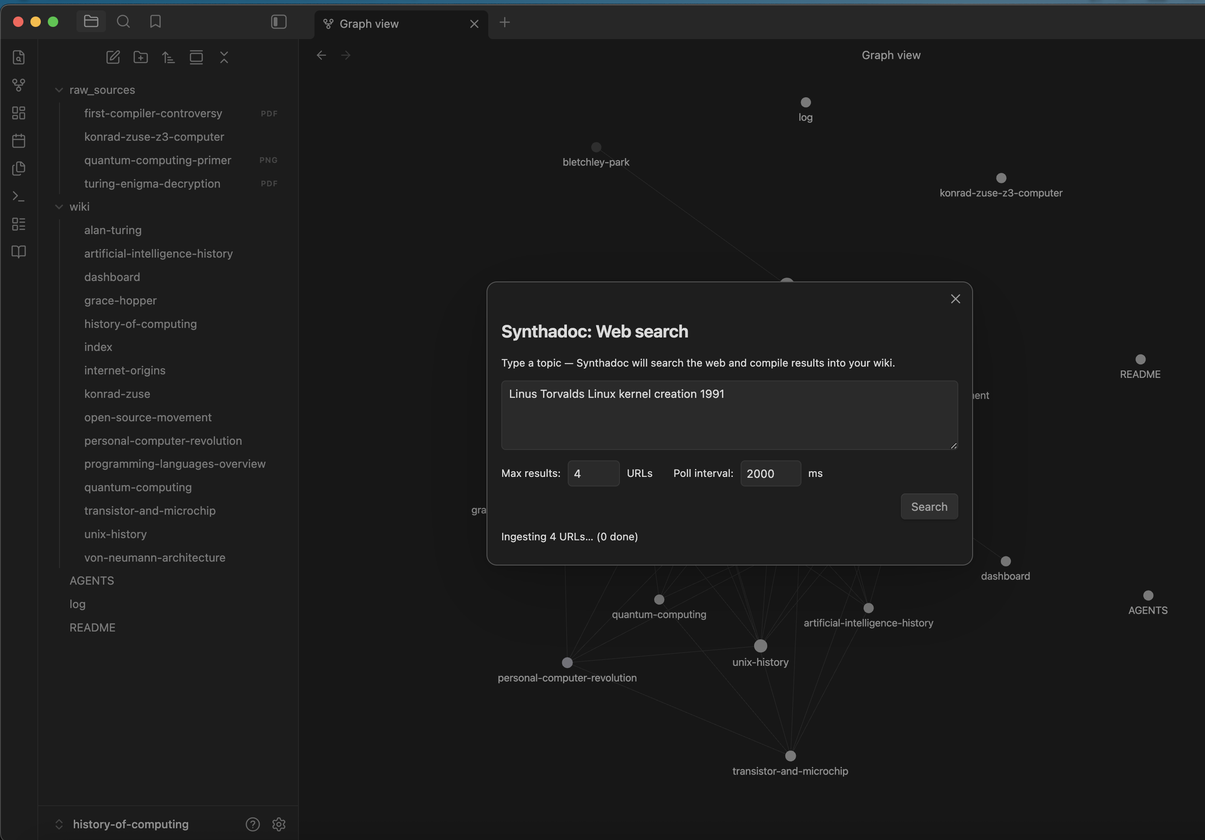
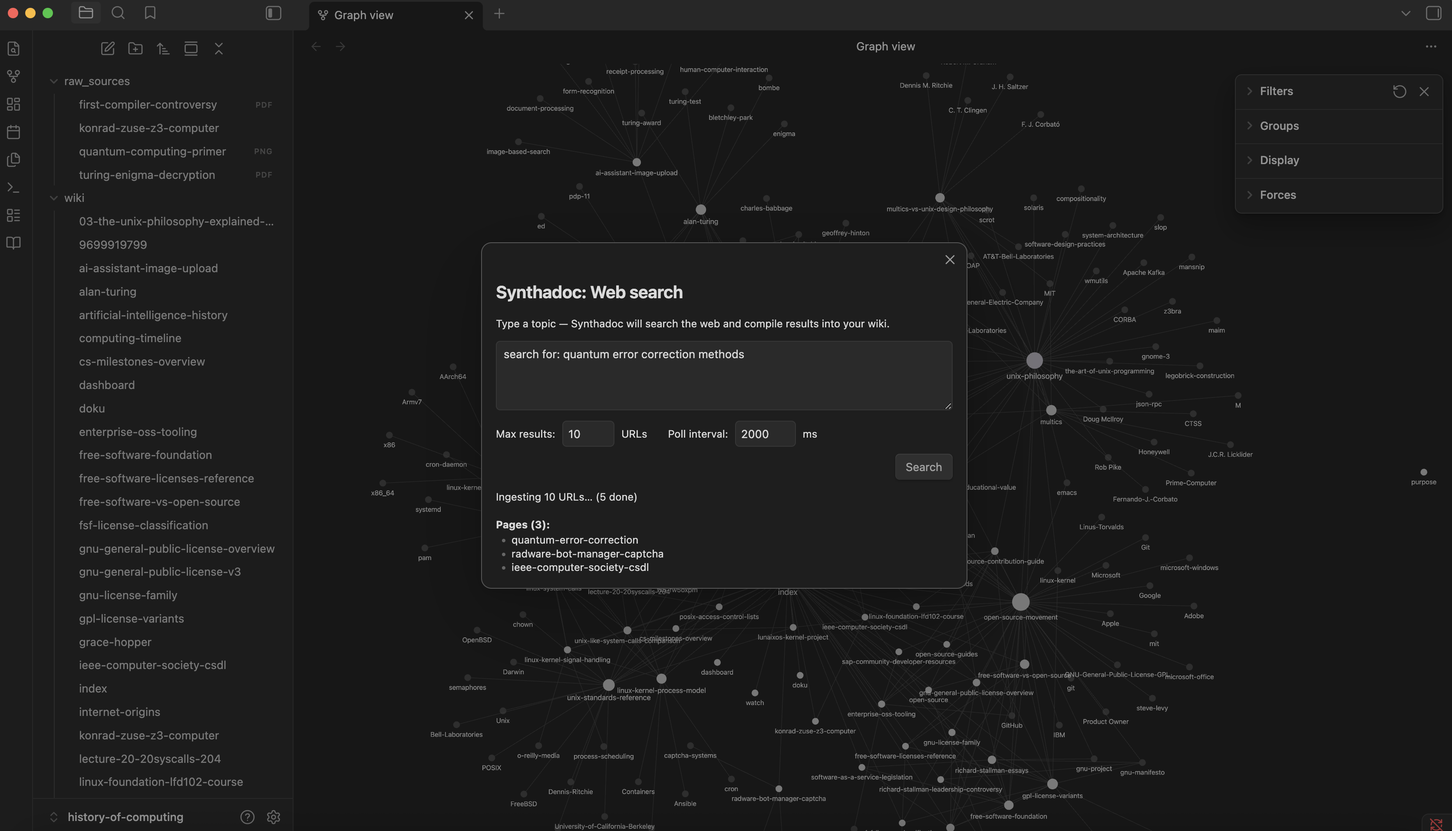
[v0.3.0] make Obsidian plugin for Synthadoc query and web search result text selectable for copy/paste (#49)
* fix(obsidian): make query and web search result text selectable for copy/paste
* update the live view png file

diff --git a/obsidian-plugin/main.js b/obsidian-plugin/main.js
@@ -1,6 +1,6 @@
 var I=Object.defineProperty;var tt=Object.getOwnPropertyDescriptor;var et=Object.getOwnPropertyNames;var st=Object.prototype.hasOwnProperty;var nt=(d,o)=>{for(var e in o)I(d,e,{get:o[e],enumerable:!0})},at=(d,o,e,t)=>{if(o&&typeof o=="object"||typeof o=="function")for(let n of et(o))!st.call(d,n)&&n!==e&&I(d,n,{get:()=>o[n],enumerable:!(t=tt(o,n))||t.enumerable});return d};var ot=d=>at(I({},"__esModule",{value:!0}),d);var lt={};nt(lt,{default:()=>C});module.exports=ot(lt);var p=require("obsidian");var V=require("obsidian"),X="http://127.0.0.1:7070";function P(d){X=d.replace(/\/$/,"")}async function w(d,o="GET",e){let t=await(0,V.requestUrl)({url:`${X}${d}`,method:o,headers:{"Content-Type":"application/json"},body:e?JSON.stringify(e):void 0,throw:!1});if(t.status<200||t.status>=300)throw new Error(`synthadoc API ${t.status}`);return t.json}var f={health:()=>w("/health"),status:()=>w("/status"),query:d=>w("/query","POST",{question:d}),ingest:(d,o)=>w("/jobs/ingest","POST",o!=null?{source:d,max_results:o}:{source:d}),lint:(d="all",o=!1)=>w("/jobs/lint","POST",{scope:d,auto_resolve:o}),lintReport:()=>w("/lint/report"),jobs:d=>w(d?`/jobs?status=${encodeURIComponent(d)}`:"/jobs"),retryJob:d=>w(`/jobs/${d}/retry`,"POST"),purgeJobs:d=>w(`/jobs?older_than=${d}`,"DELETE"),scaffold:d=>w("/jobs/scaffold","POST",{domain:d}),job:d=>w(`/jobs/${d}`),auditHistory:(d=50)=>w(`/audit/history?limit=${d}`),auditCosts:(d=30)=>w(`/audit/costs?days=${d}`),queryHistory:(d=50)=>w(`/audit/queries?limit=${d}`)};var Z=new Set(["md","txt","pdf","docx","xlsx","csv","png","jpg","jpeg","webp","gif","tiff"]),Y={serverUrl:"http://127.0.0.1:7070",rawSourcesFolder:"raw_sources"},C=class extends p.Plugin{constructor(){super(...arguments);this.settings=Y}async onload(){await this.loadSettings(),P(this.settings.serverUrl),this.addSettingTab(new O(this.app,this)),this.addCommand({id:"synthadoc-ingest-current",name:"Ingest: current file",callback:()=>{let e=this.app.workspace.getActiveFile();e?this.ingestFile(e):new q(this.app,this).open()}}),this.addCommand({id:"synthadoc-ingest-all",name:"Ingest: all sources in folder",callback:()=>this.ingestAllSources()}),this.addCommand({id:"synthadoc-query",name:"Query: ask the wiki...",callback:()=>new Q(this.app).open()}),this.addCommand({id:"synthadoc-jobs",name:"Jobs: list...",callback:()=>new z(this.app).open()}),this.addCommand({id:"synthadoc-lint-report",name:"Lint: report",callback:()=>new F(this.app).open()}),this.addCommand({id:"synthadoc-ingest-url",name:"Ingest: from URL...",callback:()=>new R(this.app).open()}),this.addCommand({id:"synthadoc-web-search",name:"Ingest: web search...",callback:()=>new H(this.app).open()}),this.addCommand({id:"synthadoc-lint",name:"Lint: run",callback:async()=>{var e,t;new p.Notice("Synthadoc: running lint...");try{let n=await f.lint();new p.Notice(`Synthadoc: lint done \u2014 ${n.contradictions_found} contradictions, ${(t=(e=n.orphans)==null?void 0:e.length)!=null?t:0} orphans`)}catch(n){new p.Notice("Synthadoc: server not running \u2014 run 'synthadoc serve'")}}}),this.addCommand({id:"synthadoc-lint-auto-resolve",name:"Lint: run with auto-resolve",callback:async()=>{var e,t;new p.Notice("Synthadoc: running lint with auto-resolve...");try{let n=await f.lint("all",!0);new p.Notice(`Synthadoc: lint done \u2014 ${n.contradictions_found} contradictions, ${(t=(e=n.orphans)==null?void 0:e.length)!=null?t:0} orphans`)}catch(n){new p.Notice("Synthadoc: server not running \u2014 run 'synthadoc serve'")}}}),this.addCommand({id:"synthadoc-jobs-retry-dead",name:"Jobs: retry dead job...",callback:()=>new A(this.app).open()}),this.addCommand({id:"synthadoc-jobs-purge",name:"Jobs: purge old completed/dead...",callback:()=>new D(this.app).open()}),this.addCommand({id:"synthadoc-scaffold",name:"Wiki: regenerate scaffold...",callback:()=>new M(this.app).open()}),this.addCommand({id:"synthadoc-audit-history",name:"Audit: ingest history...",callback:()=>new U(this.app).open()}),this.addCommand({id:"synthadoc-audit-costs",name:"Audit: cost summary...",callback:()=>new N(this.app).open()}),this.addCommand({id:"synthadoc-audit-queries",name:"Audit: query history...",callback:()=>new J(this.app).open()}),this.addRibbonIcon("book-open","Synthadoc status",async()=>{let[e,t]=await Promise.allSettled([f.health(),f.status()]),r=e.status==="fulfilled"?"\u2705 online":"\u274C offline \u2014 run 'synthadoc serve'",a=t.status==="fulfilled"?` \xB7 ${t.value.pages} pages`:"";new p.Notice(`Synthadoc: ${r}${a}`)})}async loadSettings(){this.settings=Object.assign({},Y,await this.loadData())}async saveSettings(){await this.saveData(this.settings)}async ingestFile(e){try{let t=await f.ingest(e.path);new p.Notice(`Synthadoc: ingest queued (job ${t.job_id})`)}catch(t){new p.Notice("Synthadoc: ingest failed \u2014 is the server running?")}}async ingestAllSources(){let e=this.settings.rawSourcesFolder.replace(/\/$/,""),t=this.app.vault.getFiles().filter(a=>{var s,l;if(!a.path.startsWith(e+"/"))return!1;let i=(l=(s=a.extension)==null?void 0:s.toLowerCase())!=null?l:"";return Z.has(i)});if(t.length===0){new p.Notice(`Synthadoc: no files found in '${e}'`);return}new p.Notice(`Synthadoc: queuing ${t.length} source(s)\u2026`);let n=0,r=0;for(let a of t)try{await f.ingest(a.path),n++}catch(i){r++}r===0?new p.Notice(`Synthadoc: ${n} job(s) queued`):new p.Notice(`Synthadoc: ${n} queued, ${r} failed \u2014 is the server running?`)}},q=class extends p.SuggestModal{constructor(o,e){super(o),this.plugin=e,this.setPlaceholder("Select a source file to ingest\u2026")}getSuggestions(o){let e=this.plugin.settings.rawSourcesFolder.replace(/\/$/,""),t=o.toLowerCase();return this.app.vault.getFiles().filter(n=>{var a,i;if(!n.path.startsWith(e+"/"))return!1;let r=(i=(a=n.extension)==null?void 0:a.toLowerCase())!=null?i:"";return Z.has(r)?t?n.name.toLowerCase().includes(t):!0:!1})}renderSuggestion(o,e){e.createEl("div",{text:o.name}),e.createEl("div",{text:o.path,cls:"synthadoc-muted"}).style.fontSize="11px"}onChooseSuggestion(o){this.plugin.ingestFile(o)}},O=class extends p.PluginSettingTab{constructor(o,e){super(o,e),this.plugin=e}display(){let{containerEl:o}=this;o.empty(),o.createEl("h2",{text:"Synthadoc settings"}),new p.Setting(o).setName("Server URL").setDesc("URL of the synthadoc HTTP server for this vault (e.g. http://127.0.0.1:7070)").addText(e=>e.setPlaceholder("http://127.0.0.1:7070").setValue(this.plugin.settings.serverUrl).onChange(async t=>{this.plugin.settings.serverUrl=t,P(t),await this.plugin.saveSettings()})),new p.Setting(o).setName("Raw sources folder").setDesc("Vault-relative folder scanned by 'Ingest all sources' (default: raw_sources)").addText(e=>e.setPlaceholder("raw_sources").setValue(this.plugin.settings.rawSourcesFolder).onChange(async t=>{this.plugin.settings.rawSourcesFolder=t,await this.plugin.saveSettings()}))}},rt=["all","pending","in_progress","completed","failed","skipped","dead"],it={pending:"\u23F3",running:"\u25B6",completed:"\u2705",failed:"\u274C",dead:"\u{1F480}"},z=class extends p.Modal{constructor(){super(...arguments);this.currentStatus="all";this.tableEl=null}onOpen(){let e=this.containerEl.querySelector(".modal-bg");e&&e.addEventListener("click",s=>s.stopImmediatePropagation(),{capture:!0});let{contentEl:t}=this;t.createEl("h3",{text:"Synthadoc: Jobs"});let n=t.createEl("div");n.style.cssText="display:flex;align-items:center;gap:8px;margin-bottom:12px",n.createEl("label",{text:"Filter:"});let r=n.createEl("select");for(let s of rt){let l=r.createEl("option",{text:s,value:s});s===this.currentStatus&&(l.selected=!0)}let a=n.createEl("button",{text:"Refresh"});this.tableEl=t.createEl("div");let i=async()=>{if(this.tableEl){this.tableEl.setText("Loading\u2026");try{let s=this.currentStatus==="all"?void 0:this.currentStatus,l=await f.jobs(s);this.renderTable(l)}catch(s){this.tableEl.setText("Error: is synthadoc serve running?")}}};r.onchange=()=>{this.currentStatus=r.value,i()},a.onclick=()=>i(),i()}renderTable(e){var i,s,l,c,x;if(!this.tableEl)return;if(this.tableEl.empty(),e.length===0){this.tableEl.createEl("p",{text:"No jobs found."});return}let t=this.tableEl.createEl("table");t.style.cssText="width:100%;border-collapse:collapse;font-size:13px";let r=t.createEl("thead").createEl("tr");for(let u of["Status","Operation","Source","Created"]){let g=r.createEl("th",{text:u});g.style.cssText="text-align:left;padding:4px 8px;border-bottom:1px solid var(--background-modifier-border)"}let a=t.createEl("tbody");for(let u of e){let g=a.createEl("tr"),h=(i=u.payload)!=null&&i.source?u.payload.source.split(/[\\/]/).pop():u.operation==="lint"?"(lint)":"\u2014",E=u.created_at?new Date(u.created_at.replace(" ","T")+"+00:00").toLocaleString():"\u2014",y=(s=it[u.status])!=null?s:"";for(let m of[`${y} ${u.status}`,u.operation,h,E]){let b=g.createEl("td",{text:m});b.style.cssText="padding:4px 8px;border-bottom:1px solid var(--background-modifier-border-subtle)"}if(u.status==="completed"&&u.result){let m=u.result,b=[];if((l=m.pages_created)!=null&&l.length&&b.push(`created: ${m.pages_created.join(", ")}`),(c=m.pages_updated)!=null&&c.length&&b.push(`updated: ${m.pages_updated.join(", ")}`),(x=m.pages_flagged)!=null&&x.length&&b.push(`flagged: ${m.pages_flagged.join(", ")}`),b.length){let v=a.createEl("tr").createEl("td",{text:b.join(" \xB7 ")});v.colSpan=4,v.style.cssText="padding:2px 8px 6px 8px;font-size:11px;color:var(--text-muted)"}}if(u.status==="failed"&&u.error){let b=a.createEl("tr").createEl("td",{text:`Error: ${u.error}`});b.colSpan=4,b.style.cssText="padding:2px 8px 6px 8px;font-size:11px;color:var(--text-error)"}}}onClose(){this.contentEl.empty()}},F=class extends p.Modal{onOpen(){let o=this.containerEl.querySelector(".modal-bg");o&&o.addEventListener("click",n=>n.stopImmediatePropagation(),{capture:!0});let{contentEl:e}=this;e.createEl("h3",{text:"Synthadoc: Lint report"});let t=e.createEl("div");t.createEl("p",{text:"Loading\u2026",cls:"synthadoc-muted"}),f.lintReport().then(n=>{var i,s,l;t.empty();let r=(i=n.contradictions)!=null?i:[],a=(l=n.orphan_details)!=null?l:((s=n.orphans)!=null?s:[]).map(c=>({slug:c,index_suggestion:`- [[${c}]]`}));if(r.length===0&&a.length===0){t.createEl("p",{text:"\u2705 All clear \u2014 no contradictions or orphan pages."});return}if(r.length>0){t.createEl("h4",{text:`\u274C Contradicted pages (${r.length})`});let c=t.createEl("ul");r.forEach(x=>{let u=c.createEl("li");u.createEl("code",{text:x}),u.appendText(" \u2014 open the page, resolve the conflict, set status: active")})}if(a.length>0){t.createEl("h4",{text:`\u{1F517} Orphan pages (${a.length})`});let c=t.createEl("ul");a.forEach(({slug:x,index_suggestion:u})=>{let g=c.createEl("li");g.createEl("code",{text:x}),g.appendText(" \u2014 no inbound links");let h=g.createEl("div");h.style.cssText="font-size:11px;color:var(--text-muted);margin-top:2px",h.appendText("Suggested index entry: "),h.createEl("code",{text:u})})}}).catch(()=>{t.empty(),t.createEl("p",{text:"Error: is synthadoc serve running?"})})}onClose(){this.contentEl.empty()}},R=class extends p.Modal{onOpen(){let o=this.containerEl.querySelector(".modal-bg");o&&o.addEventListener("click",s=>s.stopImmediatePropagation(),{capture:!0});let{contentEl:e}=this;e.createEl("h3",{text:"Synthadoc: Ingest from URL"});let t=e.createEl("div");t.style.cssText="display:flex;gap:8px;margin-bottom:12px";let n=t.createEl("input",{type:"url",placeholder:"https://..."});n.style.cssText="flex:1;padding:4px 8px";let r=t.createEl("button",{text:"Ingest"}),a=e.createEl("p"),i=async()=>{let s=n.value.trim();if(s){r.disabled=!0,a.setText("Queuing\u2026");try{let l=await f.ingest(s);a.setText(`Queued \u2014 job ${l.job_id}`),new p.Notice(`Synthadoc: ingest queued (job ${l.job_id})`)}catch(l){a.setText("Error: is synthadoc serve running?")}finally{r.disabled=!1}}};r.onclick=i,n.addEventListener("keydown",s=>{s.key==="Enter"&&i()})}onClose(){this.contentEl.empty()}},H=class extends p.Modal{constructor(){super(...arguments);this._pollTimer=null;this._pollInterval=2e3}onOpen(){let e=this.containerEl.querySelector(".modal-bg");e&&e.addEventListener("click",h=>h.stopImmediatePropagation(),{capture:!0});let{contentEl:t}=this;t.createEl("h3",{text:"Synthadoc: Web search"}),t.createEl("p",{text:"Type a topic \u2014 Synthadoc will search the web and compile results into your wiki.",cls:"synthadoc-muted"}).style.cssText="font-size:12px;margin-bottom:12px";let n=t.createEl("textarea",{placeholder:`e.g. Bank of Canada rate outlook 2025
-Ontario housing market trends`});n.style.cssText="width:100%;min-height:80px;padding:6px 8px;resize:vertical;margin-bottom:8px;box-sizing:border-box";let r=t.createEl("div");r.style.cssText="display:flex;align-items:center;gap:8px;margin-bottom:8px;font-size:12px",r.createEl("label",{text:"Max results:"});let a=r.createEl("input",{type:"number"});a.value="20",a.min="1",a.max="50",a.step="1",a.style.cssText="width:60px;padding:4px 6px",r.createEl("span",{text:"URLs"}).style.marginRight="16px",r.createEl("label",{text:"Poll interval:"});let i=r.createEl("input",{type:"number"});i.value="2000",i.min="500",i.max="10000",i.step="500",i.style.cssText="width:70px;padding:4px 6px",r.createEl("span",{text:"ms"});let s=t.createEl("div");s.style.cssText="display:flex;justify-content:flex-end;margin-bottom:12px";let l=s.createEl("button",{text:"Search"}),c=t.createEl("p");c.style.cssText="font-size:12px;min-height:20px;margin-bottom:4px";let x=t.createEl("div"),u=t.createEl("div"),g=async()=>{let h=n.value.trim();if(!h)return;l.disabled=!0,n.disabled=!0,this._pollInterval=Math.min(1e4,Math.max(500,parseInt(i.value)||2e3));let E=Math.min(50,Math.max(1,parseInt(a.value)||20));c.setText("Queuing web search\u2026"),x.empty(),u.empty();try{let m=(await f.ingest(`search for: ${h}`,E)).job_id;new p.Notice(`Synthadoc: web search queued (job ${m})`),this._startPolling(m,c,x,u)}catch(y){c.setText("Error: is synthadoc serve running?"),l.disabled=!1,n.disabled=!1}};l.onclick=g,n.addEventListener("keydown",h=>{h.key==="Enter"&&(h.ctrlKey||h.metaKey)&&g()}),setTimeout(()=>n.focus(),50)}_startPolling(e,t,n,r){let a=new Set,i=[],s=[],l=0,c=async()=>{var x,u,g,h,E,y,m,b,T,v,_;try{let S=await f.job(e),W=(x=S.progress)==null?void 0:x.phase,B=["completed","failed","dead","skipped"].includes(S.status);if((g=(u=S.result)==null?void 0:u.child_job_ids)!=null&&g.length&&s.length===0&&(s=S.result.child_job_ids),!B){if(W==="searching")t.setText("Searching the web\u2026");else if(W==="found_urls"){let k=(E=(h=S.progress)==null?void 0:h.total)!=null?E:0;t.setText(`Found ${k} URL${k!==1?"s":""} \u2014 ingesting\u2026`)}}if(s.length>0){let k=await f.jobs();l=0;for(let L of k)if(s.includes(L.id)){if(L.status==="completed"){l++;for(let j of(m=(y=L.result)==null?void 0:y.pages_created)!=null?m:[])a.add(j);for(let j of(T=(b=L.result)==null?void 0:b.pages_updated)!=null?T:[])a.add(j)}else if(["failed","dead","skipped"].includes(L.status)&&L.error){let K=`${(_=(v=L.payload)==null?void 0:v.source)!=null?_:L.id}: ${L.error}`;i.includes(K)||i.push(K)}}let $=l+i.length;$<s.length&&t.setText(`Ingesting ${s.length} URL${s.length!==1?"s":""}\u2026 (${$} done)`)}if(a.size>0){n.empty(),n.createEl("p",{text:`Pages (${a.size}):`}).style.cssText="font-size:12px;font-weight:bold;margin-bottom:2px";let k=n.createEl("ul");k.style.cssText="font-size:12px;margin:0;padding-left:18px";for(let $ of a)k.createEl("li",{text:$})}if(i.length>0){r.empty(),r.createEl("p",{text:`Errors (${i.length}):`}).style.cssText="font-size:12px;font-weight:bold;margin-bottom:2px;color:var(--text-error)";let k=r.createEl("ul");k.style.cssText="font-size:12px;margin:0;padding-left:18px;color:var(--text-error)";for(let $ of i)k.createEl("li",{text:$})}let G=s.length>0&&l+i.length>=s.length;if(B&&(s.length===0||G)){this._stopPolling(),S.status==="completed"||G?(t.setText(`Done \u2014 ${a.size} page(s) written.`),new p.Notice(`Synthadoc: web search complete \u2014 ${a.size} page(s)`)):t.setText(`Search ${S.status}${S.error?`: ${S.error}`:""}`);return}}catch(S){}this._pollTimer=window.setTimeout(c,this._pollInterval)};this._pollTimer=window.setTimeout(c,this._pollInterval)}_stopPolling(){this._pollTimer!==null&&(window.clearTimeout(this._pollTimer),this._pollTimer=null)}onClose(){this._stopPolling(),this.contentEl.empty()}},A=class extends p.Modal{onOpen(){let o=this.containerEl.querySelector(".modal-bg");o&&o.addEventListener("click",n=>n.stopImmediatePropagation(),{capture:!0});let{contentEl:e}=this;e.createEl("h3",{text:"Synthadoc: Retry dead job"});let t=e.createEl("div");t.createEl("p",{text:"Loading dead jobs\u2026",cls:"synthadoc-muted"}),f.jobs("dead").then(n=>{var s,l;if(t.empty(),!n.length){t.createEl("p",{text:"No dead jobs."});return}let r=t.createEl("table");r.style.cssText="width:100%;border-collapse:collapse;font-size:13px";let a=r.createEl("thead").createEl("tr");for(let c of["Job ID","Operation","Source","Error",""]){let x=a.createEl("th",{text:c});x.style.cssText="text-align:left;padding:4px 8px;border-bottom:1px solid var(--background-modifier-border)"}let i=r.createEl("tbody");for(let c of n){let x=i.createEl("tr"),u=(s=c.payload)!=null&&s.source?c.payload.source.split(/[\\/]/).pop():c.operation;for(let E of[c.id,c.operation,u,(l=c.error)!=null?l:"\u2014"]){let y=x.createEl("td",{text:E});y.style.cssText="padding:4px 8px;border-bottom:1px solid var(--background-modifier-border-subtle)"}let g=x.createEl("td");g.style.cssText="padding:4px 8px;border-bottom:1px solid var(--background-modifier-border-subtle)";let h=g.createEl("button",{text:"Retry"});h.onclick=async()=>{h.disabled=!0,h.setText("\u2026");try{await f.retryJob(c.id),new p.Notice(`Synthadoc: job ${c.id} re-queued`),x.remove()}catch(E){new p.Notice("Synthadoc: retry failed \u2014 is the server running?"),h.disabled=!1,h.setText("Retry")}}}}).catch(()=>{t.empty(),t.createEl("p",{text:"Error: is synthadoc serve running?"})})}onClose(){this.contentEl.empty()}},D=class extends p.Modal{onOpen(){let o=this.containerEl.querySelector(".modal-bg");o&&o.addEventListener("click",i=>i.stopImmediatePropagation(),{capture:!0});let{contentEl:e}=this;e.createEl("h3",{text:"Synthadoc: Purge old jobs"}),e.createEl("p",{text:"Removes completed and dead jobs older than the specified number of days.",cls:"synthadoc-muted"}).style.cssText="font-size:12px;margin-bottom:12px";let t=e.createEl("div");t.style.cssText="display:flex;align-items:center;gap:8px;margin-bottom:12px",t.createEl("label",{text:"Older than (days):"});let n=t.createEl("input",{type:"number"});n.value="7",n.style.cssText="width:70px;padding:4px 8px";let r=t.createEl("button",{text:"Purge"}),a=e.createEl("p");r.onclick=async()=>{let i=parseInt(n.value)||7;r.disabled=!0,a.setText("Purging\u2026");try{let s=await f.purgeJobs(i);a.setText(`Purged ${s.purged} job(s) older than ${i} day(s).`),new p.Notice(`Synthadoc: purged ${s.purged} job(s)`)}catch(s){a.setText("Error: is synthadoc serve running?")}finally{r.disabled=!1}}}onClose(){this.contentEl.empty()}},M=class extends p.Modal{onOpen(){let o=this.containerEl.querySelector(".modal-bg");o&&o.addEventListener("click",s=>s.stopImmediatePropagation(),{capture:!0});let{contentEl:e}=this;e.createEl("h3",{text:"Synthadoc: Regenerate scaffold"}),e.createEl("p",{text:"Rewrites index.md, AGENTS.md, and purpose.md for your wiki domain using the LLM. Existing wiki pages are preserved.",cls:"synthadoc-muted"}).style.cssText="font-size:12px;margin-bottom:12px";let t=e.createEl("div");t.style.cssText="display:flex;gap:8px;margin-bottom:12px";let n=t.createEl("input",{type:"text",placeholder:"e.g. Canadian tax law"});n.style.cssText="flex:1;padding:4px 8px";let r=t.createEl("button",{text:"Scaffold"}),a=e.createEl("p");f.status().then(s=>{if(s!=null&&s.wiki){let l=s.wiki.replace(/\\/g,"/").split("/");n.value=l[l.length-1].replace(/-/g," ")}}).catch(()=>{});let i=async()=>{let s=n.value.trim();if(s){r.disabled=!0,a.setText("Queuing scaffold job\u2026");try{let l=await f.scaffold(s);a.setText(`Queued \u2014 job ${l.job_id}. index.md, AGENTS.md, and purpose.md will be updated shortly.`),new p.Notice(`Synthadoc: scaffold queued (job ${l.job_id})`)}catch(l){a.setText("Error: is synthadoc serve running?")}finally{r.disabled=!1}}};r.onclick=i,n.addEventListener("keydown",s=>{s.key==="Enter"&&i()}),setTimeout(()=>n.focus(),50)}onClose(){this.contentEl.empty()}},U=class extends p.Modal{onOpen(){this.modalEl.style.width="clamp(520px, 65vw, 900px)";let o=this.containerEl.querySelector(".modal-bg");o&&o.addEventListener("click",s=>s.stopImmediatePropagation(),{capture:!0});let{contentEl:e}=this;e.createEl("h3",{text:"Synthadoc: Ingest history"});let t=e.createEl("div");t.style.cssText="display:flex;align-items:center;gap:8px;margin-bottom:12px",t.createEl("label",{text:"Last"});let n=t.createEl("input",{type:"number"});n.value="50",n.style.cssText="width:60px;padding:4px 8px",t.createEl("span",{text:"records"});let r=t.createEl("button",{text:"Load"}),a=e.createEl("div"),i=async()=>{var l,c,x;let s=parseInt(n.value)||50;a.setText("Loading\u2026");try{let u=await f.auditHistory(s);if(a.empty(),!u.records.length){a.createEl("p",{text:"No ingest records yet."});return}let g=a.createEl("table");g.style.cssText="width:100%;border-collapse:collapse;font-size:12px";let h=g.createEl("thead").createEl("tr");for(let y of["Source","Wiki page","Tokens","Cost (USD)","Ingested at"]){let m=h.createEl("th",{text:y});m.style.cssText="text-align:left;padding:4px 8px;border-bottom:1px solid var(--background-modifier-border)"}let E=g.createEl("tbody");for(let y of u.records){let m=E.createEl("tr"),b=(l=y.source_path.split(/[\\/]/).pop())!=null?l:y.source_path,T=y.ingested_at?new Date(y.ingested_at).toLocaleString():"\u2014";for(let v of[b,y.wiki_page,((c=y.tokens)!=null?c:0).toLocaleString(),`$${((x=y.cost_usd)!=null?x:0).toFixed(4)}`,T]){let _=m.createEl("td",{text:v});_.style.cssText="padding:4px 8px;border-bottom:1px solid var(--background-modifier-border-subtle)"}}}catch(u){a.setText("Error: is synthadoc serve running?")}};r.onclick=i,i()}onClose(){this.contentEl.empty()}},N=class extends p.Modal{onOpen(){let o=this.containerEl.querySelector(".modal-bg");o&&o.addEventListener("click",s=>s.stopImmediatePropagation(),{capture:!0});let{contentEl:e}=this;e.createEl("h3",{text:"Synthadoc: Cost summary"});let t=e.createEl("div");t.style.cssText="display:flex;align-items:center;gap:8px;margin-bottom:12px",t.createEl("label",{text:"Last"});let n=t.createEl("input",{type:"number"});n.value="30",n.style.cssText="width:60px;padding:4px 8px",t.createEl("span",{text:"days"});let r=t.createEl("button",{text:"Load"}),a=e.createEl("div"),i=async()=>{var l,c,x,u;let s=parseInt(n.value)||30;a.setText("Loading\u2026");try{let g=await f.auditCosts(s);a.empty();let h=a.createEl("div");if(h.style.cssText="margin-bottom:16px",h.createEl("p",{text:`Total: ${((l=g.total_tokens)!=null?l:0).toLocaleString()} tokens \xB7 $${((c=g.total_cost_usd)!=null?c:0).toFixed(4)} USD`}).style.cssText="font-weight:bold",(x=g.daily)!=null&&x.length){let E=a.createEl("table");E.style.cssText="width:100%;border-collapse:collapse;font-size:13px";let y=E.createEl("thead").createEl("tr");for(let b of["Day","Cost (USD)"]){let T=y.createEl("th",{text:b});T.style.cssText="text-align:left;padding:4px 8px;border-bottom:1px solid var(--background-modifier-border)"}let m=E.createEl("tbody");for(let b of g.daily){let T=m.createEl("tr");for(let v of[b.day,`$${((u=b.cost_usd)!=null?u:0).toFixed(4)}`]){let _=T.createEl("td",{text:v});_.style.cssText="padding:4px 8px;border-bottom:1px solid var(--background-modifier-border-subtle)"}}}else a.createEl("p",{text:"No cost data for this period.",cls:"synthadoc-muted"})}catch(g){a.setText("Error: is synthadoc serve running?")}};r.onclick=i,i()}onClose(){this.contentEl.empty()}},J=class extends p.Modal{onOpen(){this.modalEl.style.width="clamp(520px, 65vw, 900px)";let o=this.containerEl.querySelector(".modal-bg");o&&o.addEventListener("click",s=>s.stopImmediatePropagation(),{capture:!0});let{contentEl:e}=this;e.createEl("h3",{text:"Synthadoc: Query history"});let t=e.createEl("div");t.style.cssText="display:flex;align-items:center;gap:8px;margin-bottom:12px",t.createEl("label",{text:"Last"});let n=t.createEl("input",{type:"number"});n.value="50",n.style.cssText="width:60px;padding:4px 8px",t.createEl("span",{text:"records"});let r=t.createEl("button",{text:"Load"}),a=e.createEl("div"),i=async()=>{var l,c,x;let s=parseInt(n.value)||50;a.setText("Loading\u2026");try{let u=await f.queryHistory(s);if(a.empty(),!u.records.length){a.createEl("p",{text:"No queries recorded yet."});return}let g=a.createEl("table");g.style.cssText="width:100%;border-collapse:collapse;font-size:12px";let h=g.createEl("thead").createEl("tr");for(let y of["Question","Sub-Qs","Tokens","Cost (USD)","Asked at"]){let m=h.createEl("th",{text:y});m.style.cssText="text-align:left;padding:4px 8px;border-bottom:1px solid var(--background-modifier-border)"}let E=g.createEl("tbody");for(let y of u.records){let m=E.createEl("tr"),b=y.queried_at?new Date(y.queried_at).toLocaleString():"\u2014";for(let T of[y.question.length>80?y.question.slice(0,77)+"\u2026":y.question,String((l=y.sub_questions_count)!=null?l:1),((c=y.tokens)!=null?c:0).toLocaleString(),`$${((x=y.cost_usd)!=null?x:0).toFixed(4)}`,b]){let v=m.createEl("td",{text:T});v.style.cssText="padding:4px 8px;border-bottom:1px solid var(--background-modifier-border-subtle)"}}}catch(u){a.setText("Error: is synthadoc serve running?")}};r.onclick=i,i()}onClose(){this.contentEl.empty()}},Q=class extends p.Modal{onOpen(){this.modalEl.style.width="clamp(520px, 60vw, 860px)";let o=this.containerEl.querySelector(".modal-bg");o&&o.addEventListener("click",s=>s.stopImmediatePropagation(),{capture:!0});let{contentEl:e}=this;e.createEl("h3",{text:"Synthadoc: Query your wiki"});let t=e.createEl("textarea",{placeholder:`Ask a question\u2026
-(Ctrl+Enter or Cmd+Enter to submit)`});t.style.cssText="width:100%;min-height:72px;padding:6px 8px;resize:vertical;margin-bottom:8px;box-sizing:border-box";let n=e.createEl("div");n.style.cssText="display:flex;justify-content:flex-end;margin-bottom:12px";let r=n.createEl("button",{text:"Ask"}),a=e.createEl("div");a.style.cssText="max-height:60vh;overflow-y:auto;padding:4px 0",a.addEventListener("click",s=>{let l=s.target.closest("a");if(!l)return;let c=l.getAttribute("data-href")||l.getAttribute("href")||"";!c||c.startsWith("http://")||c.startsWith("https://")||(s.preventDefault(),s.stopPropagation(),this.app.workspace.openLinkText(c,"",!1),this.close())});let i=async()=>{var s,l;if(t.value.trim()){r.disabled=!0,a.empty(),a.createEl("p",{text:"Searching\u2026",cls:"synthadoc-muted"});try{let c=await f.query(t.value);if(a.empty(),await p.MarkdownRenderer.render(this.app,c.answer,a,"",this),(s=c.citations)!=null&&s.length){let x=a.createEl("p");x.style.cssText="font-size:11px;color:var(--text-muted);margin-top:8px",x.setText("Sources: "+c.citations.join(", "))}if(c.knowledge_gap&&((l=c.suggested_searches)!=null&&l.length)){let u=["> [!tip] Knowledge Gap Detected","> Your wiki doesn't have enough on this topic yet. Enrich it with a web search:",">","> **From Obsidian:** Open Command Palette (`Cmd+P` / `Ctrl+P`) \u2192 **Synthadoc: Ingest: web search**",">","> **From the terminal:**","> ```bash",...c.suggested_searches.map(h=>`synthadoc ingest "search for: ${h}"`).join(`
+Ontario housing market trends`});n.style.cssText="width:100%;min-height:80px;padding:6px 8px;resize:vertical;margin-bottom:8px;box-sizing:border-box";let r=t.createEl("div");r.style.cssText="display:flex;align-items:center;gap:8px;margin-bottom:8px;font-size:12px",r.createEl("label",{text:"Max results:"});let a=r.createEl("input",{type:"number"});a.value="20",a.min="1",a.max="50",a.step="1",a.style.cssText="width:60px;padding:4px 6px",r.createEl("span",{text:"URLs"}).style.marginRight="16px",r.createEl("label",{text:"Poll interval:"});let i=r.createEl("input",{type:"number"});i.value="2000",i.min="500",i.max="10000",i.step="500",i.style.cssText="width:70px;padding:4px 6px",r.createEl("span",{text:"ms"});let s=t.createEl("div");s.style.cssText="display:flex;justify-content:flex-end;margin-bottom:12px";let l=s.createEl("button",{text:"Search"}),c=t.createEl("p");c.style.cssText="font-size:12px;min-height:20px;margin-bottom:4px;-webkit-user-select:text;user-select:text";let x=t.createEl("div");x.style.cssText="-webkit-user-select:text;user-select:text";let u=t.createEl("div");u.style.cssText="-webkit-user-select:text;user-select:text";let g=async()=>{let h=n.value.trim();if(!h)return;l.disabled=!0,n.disabled=!0,this._pollInterval=Math.min(1e4,Math.max(500,parseInt(i.value)||2e3));let E=Math.min(50,Math.max(1,parseInt(a.value)||20));c.setText("Queuing web search\u2026"),x.empty(),u.empty();try{let m=(await f.ingest(`search for: ${h}`,E)).job_id;new p.Notice(`Synthadoc: web search queued (job ${m})`),this._startPolling(m,c,x,u)}catch(y){c.setText("Error: is synthadoc serve running?"),l.disabled=!1,n.disabled=!1}};l.onclick=g,n.addEventListener("keydown",h=>{h.key==="Enter"&&(h.ctrlKey||h.metaKey)&&g()}),setTimeout(()=>n.focus(),50)}_startPolling(e,t,n,r){let a=new Set,i=[],s=[],l=0,c=async()=>{var x,u,g,h,E,y,m,b,T,v,_;try{let S=await f.job(e),W=(x=S.progress)==null?void 0:x.phase,B=["completed","failed","dead","skipped"].includes(S.status);if((g=(u=S.result)==null?void 0:u.child_job_ids)!=null&&g.length&&s.length===0&&(s=S.result.child_job_ids),!B){if(W==="searching")t.setText("Searching the web\u2026");else if(W==="found_urls"){let k=(E=(h=S.progress)==null?void 0:h.total)!=null?E:0;t.setText(`Found ${k} URL${k!==1?"s":""} \u2014 ingesting\u2026`)}}if(s.length>0){let k=await f.jobs();l=0;for(let L of k)if(s.includes(L.id)){if(L.status==="completed"){l++;for(let j of(m=(y=L.result)==null?void 0:y.pages_created)!=null?m:[])a.add(j);for(let j of(T=(b=L.result)==null?void 0:b.pages_updated)!=null?T:[])a.add(j)}else if(["failed","dead","skipped"].includes(L.status)&&L.error){let K=`${(_=(v=L.payload)==null?void 0:v.source)!=null?_:L.id}: ${L.error}`;i.includes(K)||i.push(K)}}let $=l+i.length;$<s.length&&t.setText(`Ingesting ${s.length} URL${s.length!==1?"s":""}\u2026 (${$} done)`)}if(a.size>0){n.empty(),n.createEl("p",{text:`Pages (${a.size}):`}).style.cssText="font-size:12px;font-weight:bold;margin-bottom:2px";let k=n.createEl("ul");k.style.cssText="font-size:12px;margin:0;padding-left:18px";for(let $ of a)k.createEl("li",{text:$})}if(i.length>0){r.empty(),r.createEl("p",{text:`Errors (${i.length}):`}).style.cssText="font-size:12px;font-weight:bold;margin-bottom:2px;color:var(--text-error)";let k=r.createEl("ul");k.style.cssText="font-size:12px;margin:0;padding-left:18px;color:var(--text-error)";for(let $ of i)k.createEl("li",{text:$})}let G=s.length>0&&l+i.length>=s.length;if(B&&(s.length===0||G)){this._stopPolling(),S.status==="completed"||G?(t.setText(`Done \u2014 ${a.size} page(s) written.`),new p.Notice(`Synthadoc: web search complete \u2014 ${a.size} page(s)`)):t.setText(`Search ${S.status}${S.error?`: ${S.error}`:""}`);return}}catch(S){}this._pollTimer=window.setTimeout(c,this._pollInterval)};this._pollTimer=window.setTimeout(c,this._pollInterval)}_stopPolling(){this._pollTimer!==null&&(window.clearTimeout(this._pollTimer),this._pollTimer=null)}onClose(){this._stopPolling(),this.contentEl.empty()}},A=class extends p.Modal{onOpen(){let o=this.containerEl.querySelector(".modal-bg");o&&o.addEventListener("click",n=>n.stopImmediatePropagation(),{capture:!0});let{contentEl:e}=this;e.createEl("h3",{text:"Synthadoc: Retry dead job"});let t=e.createEl("div");t.createEl("p",{text:"Loading dead jobs\u2026",cls:"synthadoc-muted"}),f.jobs("dead").then(n=>{var s,l;if(t.empty(),!n.length){t.createEl("p",{text:"No dead jobs."});return}let r=t.createEl("table");r.style.cssText="width:100%;border-collapse:collapse;font-size:13px";let a=r.createEl("thead").createEl("tr");for(let c of["Job ID","Operation","Source","Error",""]){let x=a.createEl("th",{text:c});x.style.cssText="text-align:left;padding:4px 8px;border-bottom:1px solid var(--background-modifier-border)"}let i=r.createEl("tbody");for(let c of n){let x=i.createEl("tr"),u=(s=c.payload)!=null&&s.source?c.payload.source.split(/[\\/]/).pop():c.operation;for(let E of[c.id,c.operation,u,(l=c.error)!=null?l:"\u2014"]){let y=x.createEl("td",{text:E});y.style.cssText="padding:4px 8px;border-bottom:1px solid var(--background-modifier-border-subtle)"}let g=x.createEl("td");g.style.cssText="padding:4px 8px;border-bottom:1px solid var(--background-modifier-border-subtle)";let h=g.createEl("button",{text:"Retry"});h.onclick=async()=>{h.disabled=!0,h.setText("\u2026");try{await f.retryJob(c.id),new p.Notice(`Synthadoc: job ${c.id} re-queued`),x.remove()}catch(E){new p.Notice("Synthadoc: retry failed \u2014 is the server running?"),h.disabled=!1,h.setText("Retry")}}}}).catch(()=>{t.empty(),t.createEl("p",{text:"Error: is synthadoc serve running?"})})}onClose(){this.contentEl.empty()}},D=class extends p.Modal{onOpen(){let o=this.containerEl.querySelector(".modal-bg");o&&o.addEventListener("click",i=>i.stopImmediatePropagation(),{capture:!0});let{contentEl:e}=this;e.createEl("h3",{text:"Synthadoc: Purge old jobs"}),e.createEl("p",{text:"Removes completed and dead jobs older than the specified number of days.",cls:"synthadoc-muted"}).style.cssText="font-size:12px;margin-bottom:12px";let t=e.createEl("div");t.style.cssText="display:flex;align-items:center;gap:8px;margin-bottom:12px",t.createEl("label",{text:"Older than (days):"});let n=t.createEl("input",{type:"number"});n.value="7",n.style.cssText="width:70px;padding:4px 8px";let r=t.createEl("button",{text:"Purge"}),a=e.createEl("p");r.onclick=async()=>{let i=parseInt(n.value)||7;r.disabled=!0,a.setText("Purging\u2026");try{let s=await f.purgeJobs(i);a.setText(`Purged ${s.purged} job(s) older than ${i} day(s).`),new p.Notice(`Synthadoc: purged ${s.purged} job(s)`)}catch(s){a.setText("Error: is synthadoc serve running?")}finally{r.disabled=!1}}}onClose(){this.contentEl.empty()}},M=class extends p.Modal{onOpen(){let o=this.containerEl.querySelector(".modal-bg");o&&o.addEventListener("click",s=>s.stopImmediatePropagation(),{capture:!0});let{contentEl:e}=this;e.createEl("h3",{text:"Synthadoc: Regenerate scaffold"}),e.createEl("p",{text:"Rewrites index.md, AGENTS.md, and purpose.md for your wiki domain using the LLM. Existing wiki pages are preserved.",cls:"synthadoc-muted"}).style.cssText="font-size:12px;margin-bottom:12px";let t=e.createEl("div");t.style.cssText="display:flex;gap:8px;margin-bottom:12px";let n=t.createEl("input",{type:"text",placeholder:"e.g. Canadian tax law"});n.style.cssText="flex:1;padding:4px 8px";let r=t.createEl("button",{text:"Scaffold"}),a=e.createEl("p");f.status().then(s=>{if(s!=null&&s.wiki){let l=s.wiki.replace(/\\/g,"/").split("/");n.value=l[l.length-1].replace(/-/g," ")}}).catch(()=>{});let i=async()=>{let s=n.value.trim();if(s){r.disabled=!0,a.setText("Queuing scaffold job\u2026");try{let l=await f.scaffold(s);a.setText(`Queued \u2014 job ${l.job_id}. index.md, AGENTS.md, and purpose.md will be updated shortly.`),new p.Notice(`Synthadoc: scaffold queued (job ${l.job_id})`)}catch(l){a.setText("Error: is synthadoc serve running?")}finally{r.disabled=!1}}};r.onclick=i,n.addEventListener("keydown",s=>{s.key==="Enter"&&i()}),setTimeout(()=>n.focus(),50)}onClose(){this.contentEl.empty()}},U=class extends p.Modal{onOpen(){this.modalEl.style.width="clamp(520px, 65vw, 900px)";let o=this.containerEl.querySelector(".modal-bg");o&&o.addEventListener("click",s=>s.stopImmediatePropagation(),{capture:!0});let{contentEl:e}=this;e.createEl("h3",{text:"Synthadoc: Ingest history"});let t=e.createEl("div");t.style.cssText="display:flex;align-items:center;gap:8px;margin-bottom:12px",t.createEl("label",{text:"Last"});let n=t.createEl("input",{type:"number"});n.value="50",n.style.cssText="width:60px;padding:4px 8px",t.createEl("span",{text:"records"});let r=t.createEl("button",{text:"Load"}),a=e.createEl("div"),i=async()=>{var l,c,x;let s=parseInt(n.value)||50;a.setText("Loading\u2026");try{let u=await f.auditHistory(s);if(a.empty(),!u.records.length){a.createEl("p",{text:"No ingest records yet."});return}let g=a.createEl("table");g.style.cssText="width:100%;border-collapse:collapse;font-size:12px";let h=g.createEl("thead").createEl("tr");for(let y of["Source","Wiki page","Tokens","Cost (USD)","Ingested at"]){let m=h.createEl("th",{text:y});m.style.cssText="text-align:left;padding:4px 8px;border-bottom:1px solid var(--background-modifier-border)"}let E=g.createEl("tbody");for(let y of u.records){let m=E.createEl("tr"),b=(l=y.source_path.split(/[\\/]/).pop())!=null?l:y.source_path,T=y.ingested_at?new Date(y.ingested_at).toLocaleString():"\u2014";for(let v of[b,y.wiki_page,((c=y.tokens)!=null?c:0).toLocaleString(),`$${((x=y.cost_usd)!=null?x:0).toFixed(4)}`,T]){let _=m.createEl("td",{text:v});_.style.cssText="padding:4px 8px;border-bottom:1px solid var(--background-modifier-border-subtle)"}}}catch(u){a.setText("Error: is synthadoc serve running?")}};r.onclick=i,i()}onClose(){this.contentEl.empty()}},N=class extends p.Modal{onOpen(){let o=this.containerEl.querySelector(".modal-bg");o&&o.addEventListener("click",s=>s.stopImmediatePropagation(),{capture:!0});let{contentEl:e}=this;e.createEl("h3",{text:"Synthadoc: Cost summary"});let t=e.createEl("div");t.style.cssText="display:flex;align-items:center;gap:8px;margin-bottom:12px",t.createEl("label",{text:"Last"});let n=t.createEl("input",{type:"number"});n.value="30",n.style.cssText="width:60px;padding:4px 8px",t.createEl("span",{text:"days"});let r=t.createEl("button",{text:"Load"}),a=e.createEl("div"),i=async()=>{var l,c,x,u;let s=parseInt(n.value)||30;a.setText("Loading\u2026");try{let g=await f.auditCosts(s);a.empty();let h=a.createEl("div");if(h.style.cssText="margin-bottom:16px",h.createEl("p",{text:`Total: ${((l=g.total_tokens)!=null?l:0).toLocaleString()} tokens \xB7 $${((c=g.total_cost_usd)!=null?c:0).toFixed(4)} USD`}).style.cssText="font-weight:bold",(x=g.daily)!=null&&x.length){let E=a.createEl("table");E.style.cssText="width:100%;border-collapse:collapse;font-size:13px";let y=E.createEl("thead").createEl("tr");for(let b of["Day","Cost (USD)"]){let T=y.createEl("th",{text:b});T.style.cssText="text-align:left;padding:4px 8px;border-bottom:1px solid var(--background-modifier-border)"}let m=E.createEl("tbody");for(let b of g.daily){let T=m.createEl("tr");for(let v of[b.day,`$${((u=b.cost_usd)!=null?u:0).toFixed(4)}`]){let _=T.createEl("td",{text:v});_.style.cssText="padding:4px 8px;border-bottom:1px solid var(--background-modifier-border-subtle)"}}}else a.createEl("p",{text:"No cost data for this period.",cls:"synthadoc-muted"})}catch(g){a.setText("Error: is synthadoc serve running?")}};r.onclick=i,i()}onClose(){this.contentEl.empty()}},J=class extends p.Modal{onOpen(){this.modalEl.style.width="clamp(520px, 65vw, 900px)";let o=this.containerEl.querySelector(".modal-bg");o&&o.addEventListener("click",s=>s.stopImmediatePropagation(),{capture:!0});let{contentEl:e}=this;e.createEl("h3",{text:"Synthadoc: Query history"});let t=e.createEl("div");t.style.cssText="display:flex;align-items:center;gap:8px;margin-bottom:12px",t.createEl("label",{text:"Last"});let n=t.createEl("input",{type:"number"});n.value="50",n.style.cssText="width:60px;padding:4px 8px",t.createEl("span",{text:"records"});let r=t.createEl("button",{text:"Load"}),a=e.createEl("div"),i=async()=>{var l,c,x;let s=parseInt(n.value)||50;a.setText("Loading\u2026");try{let u=await f.queryHistory(s);if(a.empty(),!u.records.length){a.createEl("p",{text:"No queries recorded yet."});return}let g=a.createEl("table");g.style.cssText="width:100%;border-collapse:collapse;font-size:12px";let h=g.createEl("thead").createEl("tr");for(let y of["Question","Sub-Qs","Tokens","Cost (USD)","Asked at"]){let m=h.createEl("th",{text:y});m.style.cssText="text-align:left;padding:4px 8px;border-bottom:1px solid var(--background-modifier-border)"}let E=g.createEl("tbody");for(let y of u.records){let m=E.createEl("tr"),b=y.queried_at?new Date(y.queried_at).toLocaleString():"\u2014";for(let T of[y.question.length>80?y.question.slice(0,77)+"\u2026":y.question,String((l=y.sub_questions_count)!=null?l:1),((c=y.tokens)!=null?c:0).toLocaleString(),`$${((x=y.cost_usd)!=null?x:0).toFixed(4)}`,b]){let v=m.createEl("td",{text:T});v.style.cssText="padding:4px 8px;border-bottom:1px solid var(--background-modifier-border-subtle)"}}}catch(u){a.setText("Error: is synthadoc serve running?")}};r.onclick=i,i()}onClose(){this.contentEl.empty()}},Q=class extends p.Modal{onOpen(){this.modalEl.style.width="clamp(520px, 60vw, 860px)";let o=this.containerEl.querySelector(".modal-bg");o&&o.addEventListener("click",s=>s.stopImmediatePropagation(),{capture:!0});let{contentEl:e}=this;e.createEl("h3",{text:"Synthadoc: Query your wiki"});let t=e.createEl("textarea",{placeholder:`Ask a question\u2026
+(Ctrl+Enter or Cmd+Enter to submit)`});t.style.cssText="width:100%;min-height:72px;padding:6px 8px;resize:vertical;margin-bottom:8px;box-sizing:border-box";let n=e.createEl("div");n.style.cssText="display:flex;justify-content:flex-end;margin-bottom:12px";let r=n.createEl("button",{text:"Ask"}),a=e.createEl("div");a.style.cssText="max-height:60vh;overflow-y:auto;padding:4px 0;-webkit-user-select:text;user-select:text",a.addEventListener("click",s=>{let l=s.target.closest("a");if(!l)return;let c=l.getAttribute("data-href")||l.getAttribute("href")||"";!c||c.startsWith("http://")||c.startsWith("https://")||(s.preventDefault(),s.stopPropagation(),this.app.workspace.openLinkText(c,"",!1),this.close())});let i=async()=>{var s,l;if(t.value.trim()){r.disabled=!0,a.empty(),a.createEl("p",{text:"Searching\u2026",cls:"synthadoc-muted"});try{let c=await f.query(t.value);if(a.empty(),await p.MarkdownRenderer.render(this.app,c.answer,a,"",this),(s=c.citations)!=null&&s.length){let x=a.createEl("p");x.style.cssText="font-size:11px;color:var(--text-muted);margin-top:8px",x.setText("Sources: "+c.citations.join(", "))}if(c.knowledge_gap&&((l=c.suggested_searches)!=null&&l.length)){let u=["> [!tip] Knowledge Gap Detected","> Your wiki doesn't have enough on this topic yet. Enrich it with a web search:",">","> **From Obsidian:** Open Command Palette (`Cmd+P` / `Ctrl+P`) \u2192 **Synthadoc: Ingest: web search**",">","> **From the terminal:**","> ```bash",...c.suggested_searches.map(h=>`synthadoc ingest "search for: ${h}"`).join(`
 `).split(`
 `).map(h=>`> ${h}`),"> ```",">","> After ingesting, re-run your query to get a richer answer."].join(`
 `),g=a.createEl("div");g.style.cssText="margin-top:16px",await p.MarkdownRenderer.render(this.app,u,g,"",this)}}catch(c){a.empty(),a.createEl("p",{text:"Error: is synthadoc serve running?"})}finally{r.disabled=!1}}};r.onclick=i,t.addEventListener("keydown",s=>{s.key==="Enter"&&(s.ctrlKey||s.metaKey)&&i()})}onClose(){this.contentEl.empty()}};

diff --git a/obsidian-plugin/src/main.ts b/obsidian-plugin/src/main.ts
@@ -504,10 +504,12 @@ class WebSearchModal extends Modal {
         const btn = btnRow.createEl("button", { text: "Search" });
 
         const statusEl = contentEl.createEl("p");
-        statusEl.style.cssText = "font-size:12px;min-height:20px;margin-bottom:4px";
+        statusEl.style.cssText = "font-size:12px;min-height:20px;margin-bottom:4px;-webkit-user-select:text;user-select:text";
 
         const pagesEl = contentEl.createEl("div");
+        pagesEl.style.cssText = "-webkit-user-select:text;user-select:text";
         const errorsEl = contentEl.createEl("div");
+        errorsEl.style.cssText = "-webkit-user-select:text;user-select:text";
 
         const submit = async () => {
             const topic = input.value.trim();
@@ -997,7 +999,7 @@ class QueryModal extends Modal {
         const btn = row.createEl("button", { text: "Ask" });
 
         const out = contentEl.createEl("div");
-        out.style.cssText = "max-height:60vh;overflow-y:auto;padding:4px 0";
+        out.style.cssText = "max-height:60vh;overflow-y:auto;padding:4px 0;-webkit-user-select:text;user-select:text";
 
         // Handle internal [[wikilinks]] rendered by MarkdownRenderer inside the modal.
         // Obsidian's normal link handler doesn't fire inside modals, so we intercept
